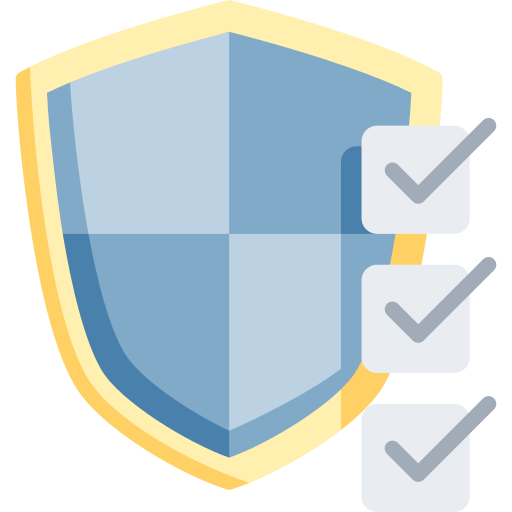
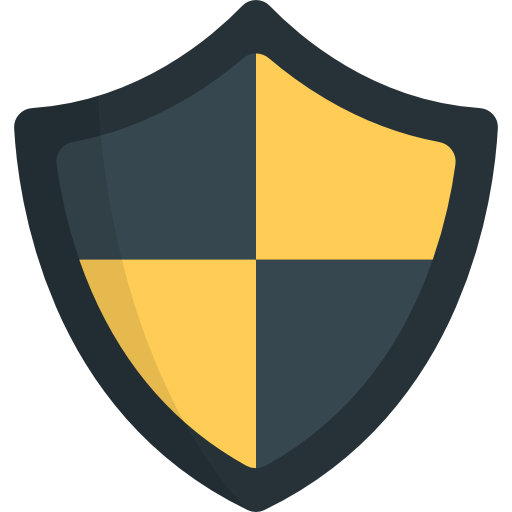
修改替换C2部分图标

diff --git a/C2Main/Properties/Resources.Designer.cs b/C2Main/Properties/Resources.Designer.cs
@@ -3290,6 +3290,16 @@ namespace C2.Properties {
         }
         
         /// <summary>
+        ///   查找 System.Drawing.Bitmap 类型的本地化资源。
+        /// </summary>
+        public static System.Drawing.Bitmap 业务视图1 {
+            get {
+                object obj = ResourceManager.GetObject("业务视图1", resourceCulture);
+                return ((System.Drawing.Bitmap)(obj));
+            }
+        }
+        
+        /// <summary>
         ///   查找类似于 (图标) 的 System.Drawing.Icon 类型的本地化资源。
         /// </summary>
         public static System.Drawing.Icon 主体分析 {
@@ -3477,6 +3487,16 @@ namespace C2.Properties {
         /// <summary>
         ///   查找 System.Drawing.Bitmap 类型的本地化资源。
         /// </summary>
+        public static System.Drawing.Bitmap 数据导入 {
+            get {
+                object obj = ResourceManager.GetObject("数据导入", resourceCulture);
+                return ((System.Drawing.Bitmap)(obj));
+            }
+        }
+        
+        /// <summary>
+        ///   查找 System.Drawing.Bitmap 类型的本地化资源。
+        /// </summary>
         public static System.Drawing.Bitmap 数据挂件 {
             get {
                 object obj = ResourceManager.GetObject("数据挂件", resourceCulture);
@@ -3515,6 +3535,16 @@ namespace C2.Properties {
         public static System.Drawing.Bitmap 模型视图 {
             get {
                 object obj = ResourceManager.GetObject("模型视图", resourceCulture);
+                return ((System.Drawing.Bitmap)(obj));
+            }
+        }
+        
+        /// <summary>
+        ///   查找 System.Drawing.Bitmap 类型的本地化资源。
+        /// </summary>
+        public static System.Drawing.Bitmap 模型视图1 {
+            get {
+                object obj = ResourceManager.GetObject("模型视图1", resourceCulture);
                 return ((System.Drawing.Bitmap)(obj));
             }
         }

diff --git a/tools/C2F/generate.C2F.py b/tools/C2F/generate.C2F.py
@@ -63,6 +63,21 @@ def del_zipfile(path):
                 print(c_path)
 
 
+def change_name(filename):
+       os.chdir(filename)
+       for i in os.listdir("."):
+           try:
+               test_name=i.encode("cp437")
+               test_name=test_name.decode("gbk")#将文件名转为gbk中文编码
+               os.rename(i,test_name)#重命名
+               i=test_name
+           except:
+               pass
+           if os.path.isdir(i):#如果解压后的是一个文件夹
+               change_name(i)
+               os.chdir('..')
+
+
 if __name__ == "__main__":
     src_path = r"D:\work\C2F"
     dst_path = r"C:\FiberHomeIAOModelDocument\IAO\业务视图"
@@ -83,10 +98,14 @@ if __name__ == "__main__":
     for c2zip in c2zip_list:
         print(c2zip)
         fz = zipfile.ZipFile(os.path.abspath(c2zip), 'r')
-        zipname = c2zip.split('_')[0]
+        for file in fz.namelist():
+            fz.extract(file, dst_path) 
+        zipname = c2zip.split('.')[0]
         rename_subfolders(dst_path,zipname)
-        fz.extractall(path = os.path.join(dst_path, zipname))
-        
-        
+        path = os.path.join(dst_path, zipname)
+        #fz.extractall(path)
+        change_name(path)
+
+
     #del_zipfile(dst_path)
     time.sleep(3)

diff --git a/C2Main/Controls/C1/Move/Dt/MoveDtControl.Designer.cs b/C2Main/Controls/C1/Move/Dt/MoveDtControl.Designer.cs
@@ -51,9 +51,9 @@
             // 
             // leftPictureBox
             // 
-            this.leftPictureBox.Image = global::C2.Properties.Resources.数据;
-            this.leftPictureBox.Location = new System.Drawing.Point(10, 4);
-            this.leftPictureBox.Size = new System.Drawing.Size(24, 24);
+            this.leftPictureBox.Image = global::C2.Properties.Resources.数据导入;
+            this.leftPictureBox.Location = new System.Drawing.Point(11, 6);
+            this.leftPictureBox.Size = new System.Drawing.Size(16, 16);
             this.leftPictureBox.SizeMode = System.Windows.Forms.PictureBoxSizeMode.Zoom;
             this.leftPictureBox.TabIndex = 0;
             this.leftPictureBox.MouseDown += new System.Windows.Forms.MouseEventHandler(this.MoveDtControl_MouseDown);

diff --git a/C2Main/Controls/ChartPageViews/MindMapChartPage.cs b/C2Main/Controls/ChartPageViews/MindMapChartPage.cs
@@ -424,7 +424,7 @@ namespace C2.ChartPageView
             MenuAddAttachment.Text = "Attachment";
             MenuAddAttachment.Click += new System.EventHandler(MenuAddAttachment_Click);
 
-            MenuAddModelOp.Image = C2.Properties.Resources.模型视图;
+            MenuAddModelOp.Image = C2.Properties.Resources.模型视图1;
             MenuAddModelOp.Name = "MenuAddModelOp";
             MenuAddModelOp.Text = "Model";
             MenuAddModelOp.Click += new System.EventHandler(MenuAddModelOp_Click);

diff --git a/C2Main/Controls/C1/Left/ModelButton.Designer.cs b/C2Main/Controls/C1/Left/ModelButton.Designer.cs
@@ -59,7 +59,7 @@
             // lelfPictureBox
             // 
             this.lelfPictureBox.Image = global::C2.Properties.Resources.模型视图;
-            this.lelfPictureBox.Location = new System.Drawing.Point(3, 6);
+            this.lelfPictureBox.Location = new System.Drawing.Point(1, 1);
             this.lelfPictureBox.Margin = new System.Windows.Forms.Padding(2);
             this.lelfPictureBox.Name = "lelfPictureBox";
             this.lelfPictureBox.Size = new System.Drawing.Size(24, 24);

diff --git a/C2Main/Forms/CanvasForm.Designer.cs b/C2Main/Forms/CanvasForm.Designer.cs
@@ -267,7 +267,7 @@
             this.Controls.Add(this.currentModelRunBackLab);
             this.Controls.Add(this.canvasPanel);
             this.Controls.Add(this.topToolBarControl);
-            this.IconImage = global::C2.Properties.Resources.模型视图;
+            this.IconImage = global::C2.Properties.Resources.模型视图1;
             this.KeyPreview = true;
             this.Name = "CanvasForm";
             this.Text = "CanvasForm";

diff --git a/C2Main/Controls/C1/Left/CastleBravoControl.cs b/C2Main/Controls/C1/Left/CastleBravoControl.cs
@@ -133,6 +133,7 @@ namespace C2.Controls.C1.Left
             private void InitButtonType()
             {
                 this.leftPictureBox.Image = global::C2.Properties.Resources.喝彩城堡任务;
+                this.leftPictureBox.Location = new System.Drawing.Point(0, -1);
                 this.rightPictureBox.Image = global::C2.Properties.Resources.提示;
             }
 
